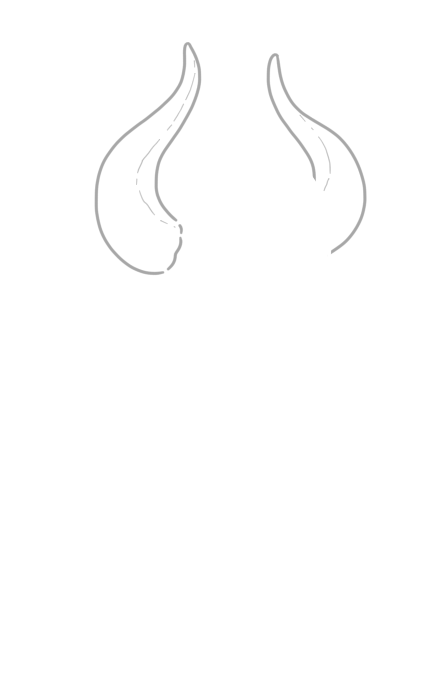
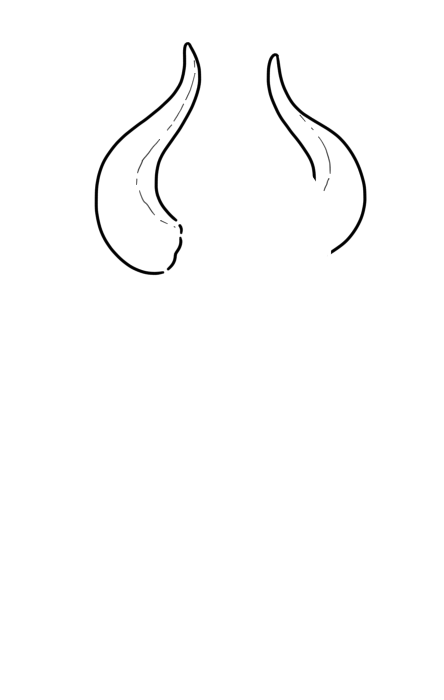
add tatoos & black outline version + new items

diff --git a/figa-files.ts b/figa-files.ts
@@ -5,8 +5,9 @@ export class ETypeColors {
 }
 
 export const characterItems: AssetsItem[] = [
-  { libelle: 'Bodies', name: 'bodies/body', nb: 2, typeColors: ETypeColors.Skin },
+  { libelle: 'Bodies', name: 'bodies/body', nb: 4, typeColors: ETypeColors.Skin },
   { libelle: 'Body (add-ons)', name: 'body_addons/addons', nb: 3, typeColors: ETypeColors.Other },
+  { libelle: 'Tatoos', name: 'tatoo', nb: 10, typeColors: null },
   { libelle: 'Tops', name: 'tops/top', nb: 3, typeColors: ETypeColors.Other },
   { libelle: 'Bottoms', name: 'bottoms/bottom', nb: 3, typeColors: ETypeColors.Other },
   { libelle: 'Shoes', name: 'shoes', nb: 1, typeColors: ETypeColors.Other },
